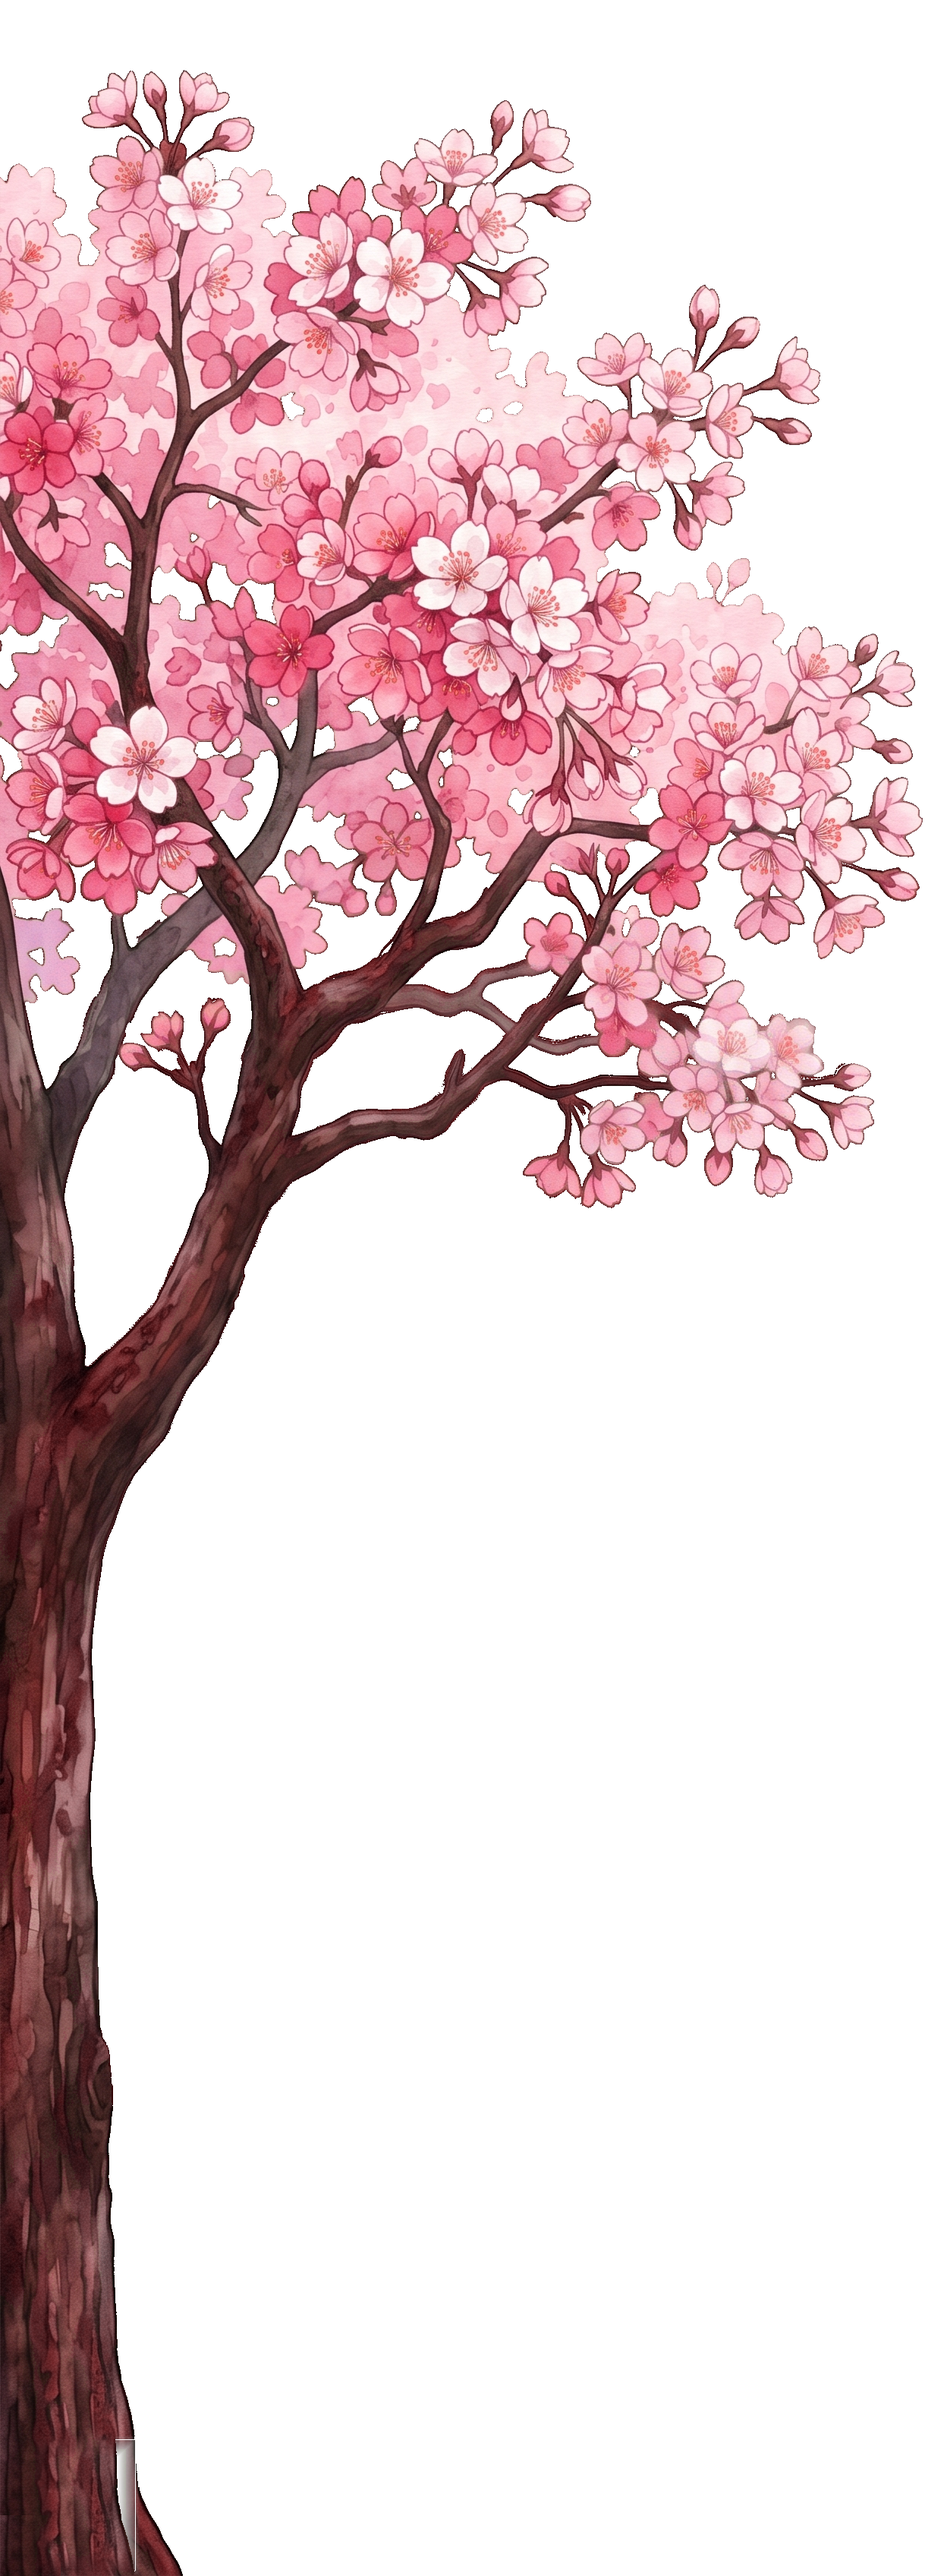
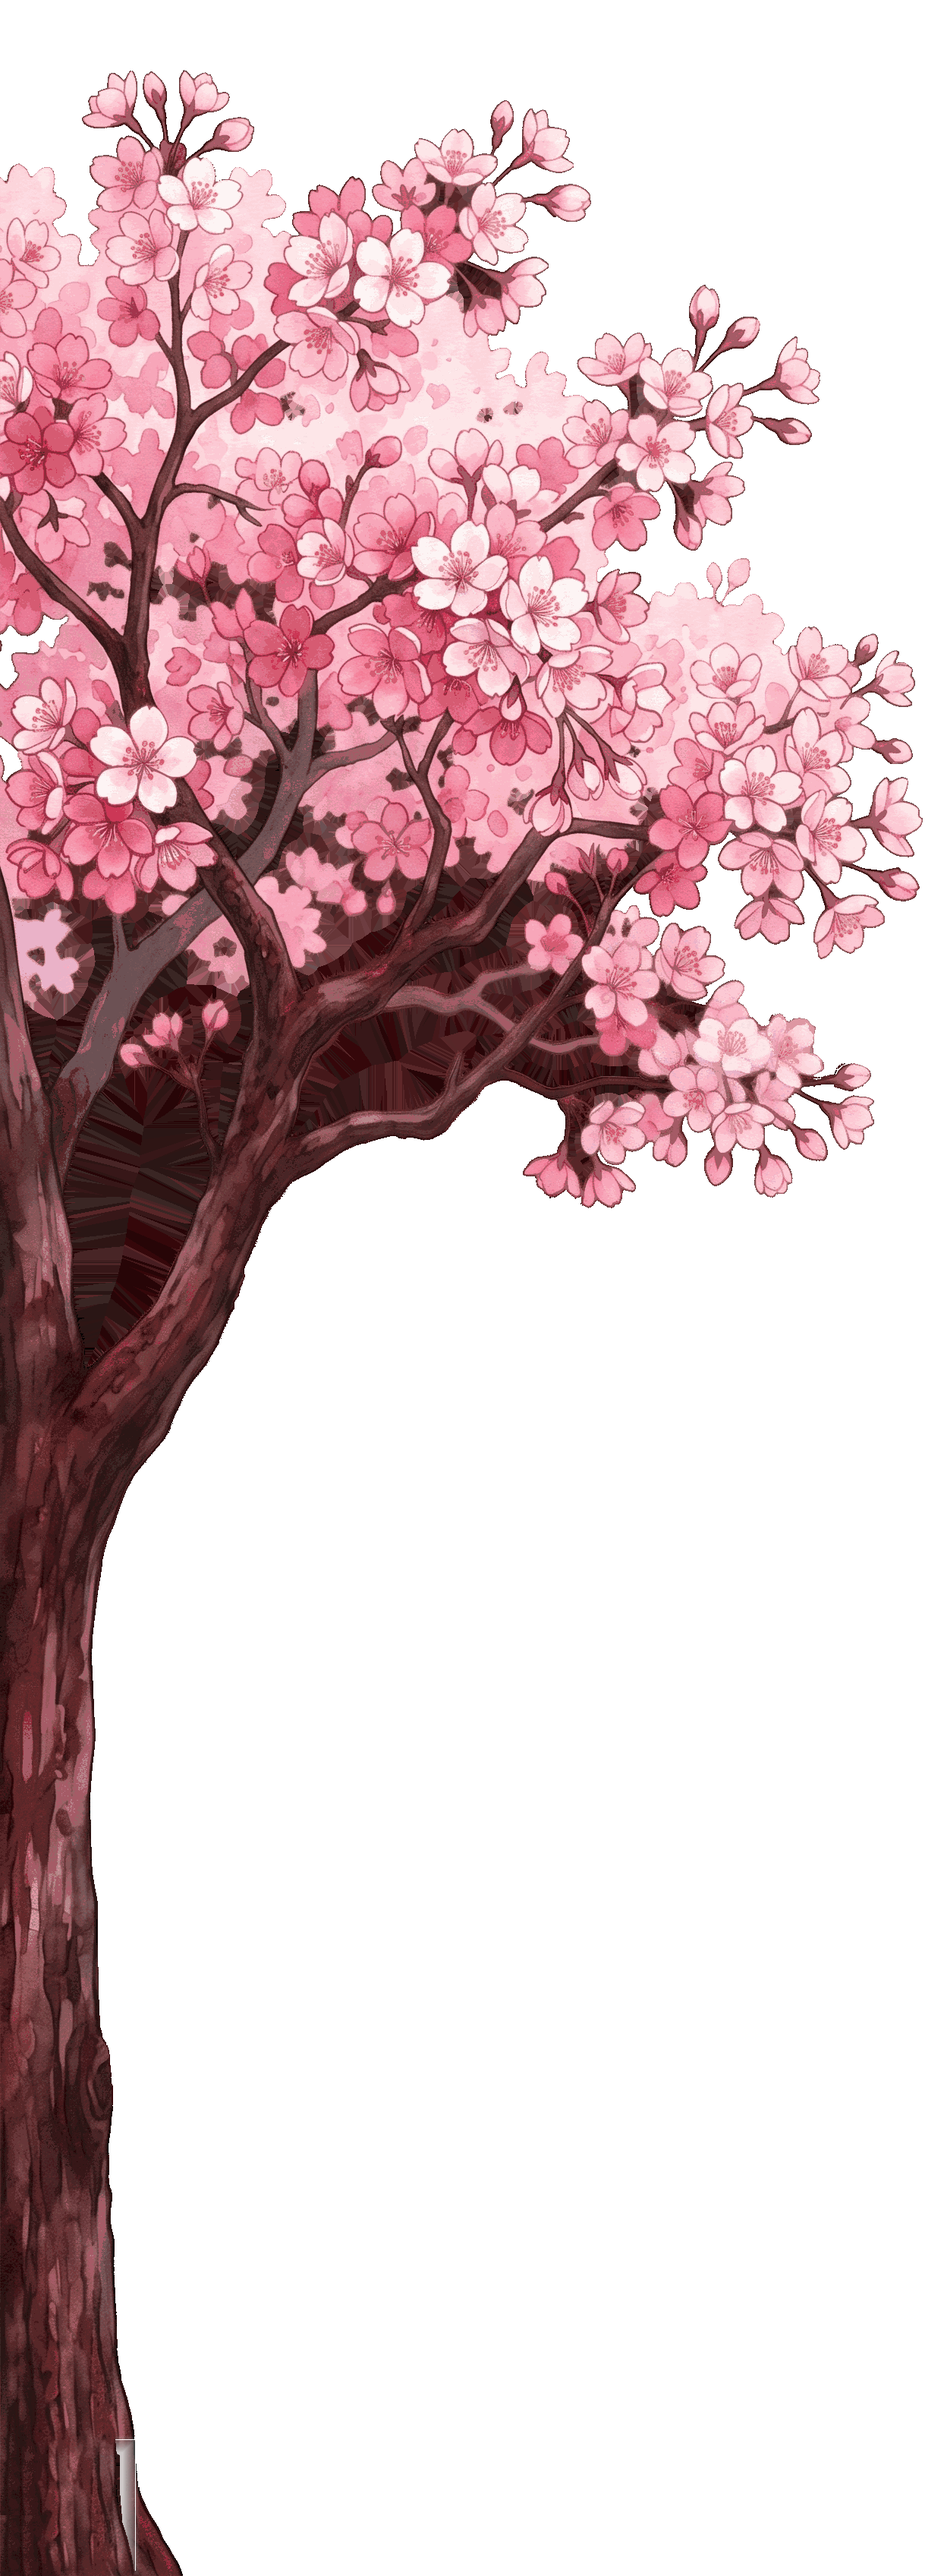
feat: 벚꽃 UI팩 4종 개선
1) gameParticles 가 벚꽃 UI 에서 안 보이던 이슈 — renderBackplate 의 solid body (rgba(28,28,34,0.96)) 완전 skip. bark bg 스트립 + 트리 이미지가 외곽 채우므로 추가 커버 불필요. 뒤의 gameParticles/별이 비쳐보임.

2) 벚꽃잎 파티클 영역 제한 — 트리 이미지 x bounds × 캐노피 상단 45% y 범위로 spawn zone 축소. 잎파리 있는 곳에서만 흩날림. 아래로 떨어지다 캐노피 끝에서 페이드 후 상단 재생성.

3) sakura_tree 세로 1.25 배 stretch — _tHScale factor 추가 (window._sakuraTreeHScale 로 런타임 override 가능). width 는 viewport 기준 유지 (레일 침범 방지). 상단 60% overflow 로 캐노피가 화면 위로 살짝 잘려 더 풍성해보임.

4) 트렁크 내부 홀 ("빵꾸") inpaint — scripts/fix_tree_holes.py. scipy.binary_fill_holes 로 내부 투명 픽셀 (left 189K, right 188K) 검출 후 distance_transform_edt 로 가장 가까운 opaque 픽셀 RGB 복사. 파일 크기도 5MB/3MB → 1.7MB/1.6MB 로 감소.

- 원본 백업: versions/sakura_tree_pre_holefill_v2/

diff --git a/index.html b/index.html
@@ -9033,63 +9033,84 @@ function _sampleTreePalette(img) {
   } catch(e) { console.warn('[bark petals] palette sample failed', e); }
 }
 function _updateBarkPetals(vh) {
-  const targetCount = (isMobile ? _BARK_PETAL_COUNT_MOBILE : _BARK_PETAL_COUNT_PC) * 2;
-  if (_barkPetals.length !== targetCount || _barkPetals.__vh !== vh) {
-    _barkPetals = [];
-    const perSide = targetCount / 2;
-    const lsx = _fLsx || getLaneStartX();
-    const pad = sz(3);
-    const outerX = Math.max(pad, lsx - sz(6));
-    const totalLW = (_fLw || getLaneW()) * laneCount;
-    const outerR = Math.min(W - pad, lsx + totalLW + sz(6));
-    for (let side = 0; side < 2; side++) {
-      const leftX = side === 0 ? 0 : outerR;
-      const rightX = side === 0 ? outerX : W;
-      const stripW = Math.max(1, rightX - leftX);
-      for (let i = 0; i < perSide; i++) {
-        // y 범위 — 상단 40% 근처 (캐노피 영역) 에서 시작해서 떨어지며 50% 이하로 사라짐.
-        //   vh 의 0~0.42 만 spawn zone. 그 후 낙하하며 페이드.
-        _barkPetals.push({
-          side, x: leftX + Math.random() * stripW,
-          y: -safeTop + Math.random() * (vh * 0.42),
-          vy: 18 + Math.random() * 22,
-          vx: (Math.random() - 0.5) * 8,
-          rot: Math.random() * Math.PI * 2,
-          rotV: (Math.random() - 0.5) * 1.2,
-          size: sz(6) + Math.random() * sz(7),
-          colIdx: Math.floor(Math.random() * 3),
-          // 사라지는 최대 y (vh * 0.55 아래로 내려가면 top 으로 재생성)
-          _maxY: -safeTop + vh * 0.55,
-        });
-      }
-    }
-    _barkPetals.__vh = vh;
-  }
-  // 운동 갱신 (프레임 dt 대신 고정 step — ambient 라 정밀 X)
-  const _dt = 0.016;
+  // ★ spawn zone = 트리 이미지 bounds × 캐노피 상단 45% 영역 (잎파리가 있는 곳에서만 흩날림)
+  const _tSk = _getUiPackSkin();
+  const _tLPath = _tSk && _tSk.imagePaths && _tSk.imagePaths.treeLeft;
+  const _tRPath = _tSk && _tSk.imagePaths && _tSk.imagePaths.treeRight;
+  const _tLImg = _tLPath ? skinImages[_tLPath] : null;
+  const _tRImg = _tRPath ? skinImages[_tRPath] : null;
   const lsx = _fLsx || getLaneStartX();
   const pad = sz(3);
   const outerX = Math.max(pad, lsx - sz(6));
   const totalLW = (_fLw || getLaneW()) * laneCount;
   const outerR = Math.min(W - pad, lsx + totalLW + sz(6));
+  const _treeShift = sz(18);
+  // 트리 draw 위치와 동일 산식 (renderBackplate 와 싱크)
+  const _tHScale = (window._sakuraTreeHScale != null) ? window._sakuraTreeHScale : 1.25;
+  const _tH = vh * _tHScale;
+  const _canopyTop = -safeTop - (_tH - vh) * 0.6; // 상단 overflow 포함
+  // 캐노피 Y 범위: 트리 draw top 부터 트리 높이의 45% 까지 (잎파리 영역)
+  const _canopyY0 = _canopyTop + _tH * 0.02;
+  const _canopyY1 = _canopyTop + _tH * 0.45;
+  // 캐노피 X 범위: 각 트리 이미지 bounds
+  let _zoneL0 = 0, _zoneL1 = outerX;
+  let _zoneR0 = outerR, _zoneR1 = W;
+  if (_tLImg && _tLImg._ok === true) {
+    const _tW = vh * (_tLImg.naturalWidth / _tLImg.naturalHeight);
+    _zoneL0 = outerX - _tW + _treeShift;
+    _zoneL1 = outerX + _treeShift * 0.6;
+  }
+  if (_tRImg && _tRImg._ok === true) {
+    const _tW = vh * (_tRImg.naturalWidth / _tRImg.naturalHeight);
+    _zoneR0 = outerR - _treeShift * 0.6;
+    _zoneR1 = outerR + _tW - _treeShift;
+  }
+
+  const targetCount = (isMobile ? _BARK_PETAL_COUNT_MOBILE : _BARK_PETAL_COUNT_PC) * 2;
+  if (_barkPetals.length !== targetCount || _barkPetals.__vh !== vh || _barkPetals.__zL0 !== _zoneL0 || _barkPetals.__zR1 !== _zoneR1) {
+    _barkPetals = [];
+    const perSide = targetCount / 2;
+    for (let side = 0; side < 2; side++) {
+      const zx0 = side === 0 ? _zoneL0 : _zoneR0;
+      const zx1 = side === 0 ? _zoneL1 : _zoneR1;
+      const zxW = Math.max(1, zx1 - zx0);
+      for (let i = 0; i < perSide; i++) {
+        _barkPetals.push({
+          side,
+          x: zx0 + Math.random() * zxW,
+          y: _canopyY0 + Math.random() * (_canopyY1 - _canopyY0),
+          vy: 14 + Math.random() * 18,
+          vx: (Math.random() - 0.5) * 6,
+          rot: Math.random() * Math.PI * 2,
+          rotV: (Math.random() - 0.5) * 1.1,
+          size: sz(5) + Math.random() * sz(6),
+          colIdx: Math.floor(Math.random() * 3),
+          _maxY: _canopyY1 + _tH * 0.08, // 캐노피 끝 + 약간 여유
+        });
+      }
+    }
+    _barkPetals.__vh = vh;
+    _barkPetals.__zL0 = _zoneL0;
+    _barkPetals.__zR1 = _zoneR1;
+  }
+
+  const _dt = 0.016;
   for (const p of _barkPetals) {
     p.x += p.vx * _dt;
     p.y += p.vy * _dt;
     p.rot += p.rotV * _dt;
-    // 캐노피 낙하 한계 벗어나면 꼭대기로 리사이클 (벚꽃잎이 캐노피 주변에서만 휘날림)
     const maxY = p._maxY != null ? p._maxY : (H + safeBottom);
     if (p.y > maxY) {
-      p.y = -safeTop - sz(10);
-      const leftX = p.side === 0 ? 0 : outerR;
-      const rightX = p.side === 0 ? outerX : W;
-      const stripW = Math.max(1, rightX - leftX);
-      p.x = leftX + Math.random() * stripW;
+      p.y = _canopyY0 - sz(4);
+      const zx0 = p.side === 0 ? _zoneL0 : _zoneR0;
+      const zx1 = p.side === 0 ? _zoneL1 : _zoneR1;
+      p.x = zx0 + Math.random() * Math.max(1, zx1 - zx0);
     }
-    // 좌우 경계 랩
-    const leftBound = p.side === 0 ? 0 : outerR;
-    const rightBound = p.side === 0 ? outerX : W;
-    if (p.x < leftBound - sz(10)) p.x = rightBound;
-    if (p.x > rightBound + sz(10)) p.x = leftBound;
+    // 캐노피 X 경계 wrap
+    const zx0 = p.side === 0 ? _zoneL0 : _zoneR0;
+    const zx1 = p.side === 0 ? _zoneL1 : _zoneR1;
+    if (p.x < zx0 - sz(8)) p.x = zx1;
+    if (p.x > zx1 + sz(8)) p.x = zx0;
   }
 }
 function _drawBarkPetals() {
@@ -9188,16 +9209,20 @@ function renderBackplate() {
     if (outerR < W) ctx.fillRect(outerR, -safeTop, W - outerR, _vh);
 
     // ★ 좌측 벚꽃 나무 — 레일 쪽으로 shift (이미지 우측 일부가 playfield 로 살짝 들어감)
+    //   세로 1.25배 stretch → 캐노피가 상단으로 overflow 해서 더 풍성해보임.
+    //   width 는 viewport 기준 유지 (레일 폭 침범 방지).
     const _tSk = _getUiPackSkin();
     const _treeShift = sz(18);   // 레일 안쪽으로 밀어넣는 offset
+    const _tHScale = (window._sakuraTreeHScale != null) ? window._sakuraTreeHScale : 1.25;
+    const _tH = _vh * _tHScale;
+    const _tYoff = -safeTop - (_tH - _vh) * 0.6; // 상단 overflow 비율 (0.6 = 60% 는 위로, 40% 는 아래로)
     const _tLPath = _tSk && _tSk.imagePaths && _tSk.imagePaths.treeLeft;
     const _tLImg = _tLPath ? skinImages[_tLPath] : null;
     if (_tLImg && _tLImg._ok === true) {
       if (_treePaletteSampled !== _tLImg) _sampleTreePalette(_tLImg);
       try {
-        const _tH = _vh;
-        const _tW = _tH * (_tLImg.naturalWidth / _tLImg.naturalHeight);
-        ctx.drawImage(_tLImg, outerX - _tW + _treeShift, -safeTop, _tW, _tH);
+        const _tW = _vh * (_tLImg.naturalWidth / _tLImg.naturalHeight);
+        ctx.drawImage(_tLImg, outerX - _tW + _treeShift, _tYoff, _tW, _tH);
       } catch(e) {}
     }
     // ★ 우측 — 레일 쪽으로 shift (이미지 좌측 일부가 playfield 로 들어감)
@@ -9205,9 +9230,8 @@ function renderBackplate() {
     const _tRImg = _tRPath ? skinImages[_tRPath] : null;
     if (_tRImg && _tRImg._ok === true) {
       try {
-        const _tH = _vh;
-        const _tW = _tH * (_tRImg.naturalWidth / _tRImg.naturalHeight);
-        ctx.drawImage(_tRImg, outerR - _treeShift, -safeTop, _tW, _tH);
+        const _tW = _vh * (_tRImg.naturalWidth / _tRImg.naturalHeight);
+        ctx.drawImage(_tRImg, outerR - _treeShift, _tYoff, _tW, _tH);
       } catch(e) {}
     }
 
@@ -9237,22 +9261,25 @@ function renderBackplate() {
   const _cutX1 = outerX + sz(3.5); // stroke 안쪽 edge = 레일 테두리 inner 라인
 
   // 1) 솔리드 차콜 몸체 — 상단/하단 모두 직각 (테두리 없음), 사이드만 화면 끝~끝
-  ctx.fillStyle = 'rgba(28,28,34,0.96)';
-  ctx.beginPath();
-  ctx.moveTo(outerX, outerY);
-  ctx.lineTo(outerX + outerW, outerY);
-  ctx.lineTo(outerX + outerW, outerB);
-  ctx.lineTo(outerX, outerB);
-  ctx.closePath();
-  // strip cutout — 벚꽃 UI 는 컨테이너가 외곽으로 뚫고 들어오지 않으니 skip.
-  if (!_getUiPack() && _stripBotY > _stripTopY && _cutX1 > _cutX0) {
-    ctx.moveTo(_cutX0, _stripTopY);
-    ctx.lineTo(_cutX0, _stripBotY);
-    ctx.lineTo(_cutX1, _stripBotY);
-    ctx.lineTo(_cutX1, _stripTopY);
+  //    ★ 벚꽃 UI 는 solid body 완전 skip → 뒤의 gameParticles/별 등이 비쳐보임.
+  //       bark bg 스트립 + 트리 이미지가 이미 외곽을 채우므로 추가 커버 불필요.
+  if (!_getUiPack()) {
+    ctx.fillStyle = 'rgba(28,28,34,0.96)';
+    ctx.beginPath();
+    ctx.moveTo(outerX, outerY);
+    ctx.lineTo(outerX + outerW, outerY);
+    ctx.lineTo(outerX + outerW, outerB);
+    ctx.lineTo(outerX, outerB);
     ctx.closePath();
+    if (_stripBotY > _stripTopY && _cutX1 > _cutX0) {
+      ctx.moveTo(_cutX0, _stripTopY);
+      ctx.lineTo(_cutX0, _stripBotY);
+      ctx.lineTo(_cutX1, _stripBotY);
+      ctx.lineTo(_cutX1, _stripTopY);
+      ctx.closePath();
+    }
+    ctx.fill('evenodd');
   }
-  ctx.fill('evenodd');
 
   // 2) 레인 채널만 게임 BG 그라데이션으로 되살리기. ★ 채널 하단을 hitY 까지로 제한 →
   //    판정선 아래는 다시 outer frame 차콜(별도 백판) 이 보이게 됨.

diff --git a/scripts/fix_tree_holes.py b/scripts/fix_tree_holes.py
@@ -1,0 +1,71 @@
+"""
+sakura_tree_left/right 의 트렁크 내부 투명 홀 (빵꾸) 을 주변 나무색으로 inpaint.
+
+알고리즘:
+1. alpha > 50 = opaque mask
+2. binary_fill_holes → 트리 실루엣 전체 (외부 투명 + 내부 홀 포함 → True)
+3. filled & ~mask = 내부 홀만 True
+4. 각 홀 픽셀에 대해 distance_transform_edt 로 가장 가까운 opaque 픽셀 index 얻음
+5. 그 opaque 픽셀의 RGB 를 홀 픽셀에 복사
+6. 홀 픽셀의 alpha 를 주변 평균 alpha 로 (opaque)
+7. PIL 로 optimize + compress 저장
+
+백업: versions/sakura_tree_raw/ 에 left/right 둘 다.
+"""
+import os
+import shutil
+import numpy as np
+from PIL import Image
+from scipy.ndimage import binary_fill_holes, distance_transform_edt
+
+ROOT = r'D:\nanorhythm-assets\nanorhythm-assets'
+CONTAINER = os.path.join(ROOT, 'skins', 'neon', 'container')
+BACKUP_DIR = os.path.join(ROOT, 'versions', 'sakura_tree_pre_holefill_v2')
+os.makedirs(BACKUP_DIR, exist_ok=True)
+
+for name in ['left', 'right']:
+    src = os.path.join(CONTAINER, f'sakura_tree_{name}.png')
+    backup = os.path.join(BACKUP_DIR, f'sakura_tree_{name}.png')
+    if not os.path.exists(backup):
+        shutil.copy(src, backup)
+        print(f'backup: {backup}')
+
+    img = Image.open(src).convert('RGBA')
+    arr = np.array(img)
+    h, w = arr.shape[:2]
+    print(f'\n{name}: {w}x{h}, orig size {os.path.getsize(src)/1024:.0f} KB')
+
+    a = arr[:, :, 3]
+    mask = a > 50
+    filled = binary_fill_holes(mask)
+    holes = filled & ~mask
+    n_holes = int(holes.sum())
+    print(f'  내부 홀 pixel: {n_holes}')
+
+    if n_holes > 0:
+        # 가까운 opaque pixel 의 index
+        _, (iy, ix) = distance_transform_edt(~mask, return_indices=True)
+        # 홀 픽셀 대상으로만 RGB 복사
+        hy, hx = np.where(holes)
+        src_y = iy[hy, hx]
+        src_x = ix[hy, hx]
+        arr[hy, hx, 0] = arr[src_y, src_x, 0]
+        arr[hy, hx, 1] = arr[src_y, src_x, 1]
+        arr[hy, hx, 2] = arr[src_y, src_x, 2]
+        arr[hy, hx, 3] = arr[src_y, src_x, 3]
+        print(f'  홀 {n_holes} pixel → 주변 opaque 색으로 inpaint')
+
+    # 알파 threshold (깔끔한 엣지)
+    a_new = arr[:, :, 3].astype(np.int32)
+    a_new = np.where(a_new < 40, 0, a_new)
+    arr[:, :, 3] = a_new.astype(np.uint8)
+
+    # 48-color quantize + compress (기존 워크플로와 동일)
+    img2 = Image.fromarray(arr, 'RGBA')
+    r, g, b, aa = img2.split()
+    rgb = Image.merge('RGB', (r, g, b))
+    p = rgb.quantize(colors=64, method=2)  # 나무 부드러운 그라데이션 위해 64
+    rgb_q = p.convert('RGB')
+    final = Image.merge('RGBA', (*rgb_q.split(), aa))
+    final.save(src, optimize=True, compress_level=9)
+    print(f'  saved: {os.path.getsize(src)/1024:.0f} KB')
